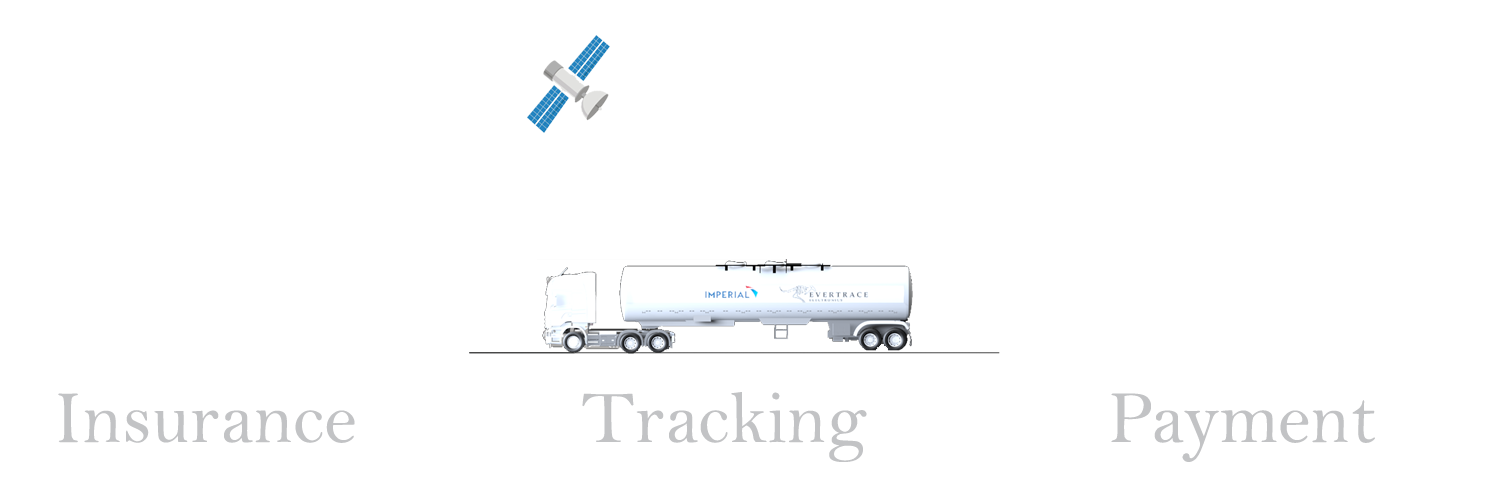
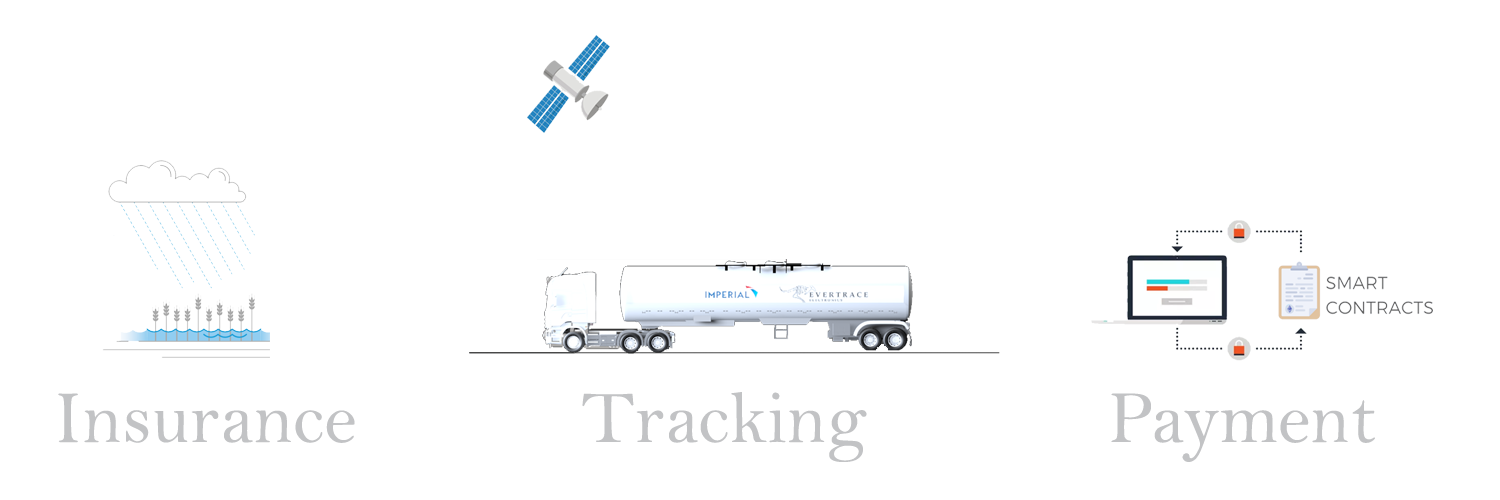
Svgs From afterEffects Imported

diff --git a/index.html b/index.html
@@ -248,8 +248,10 @@
             </div>
             <div class="ProjectCenter">
                 <div class="ProjectText">
+                    
+<div id="bm" style="height: 100%; width: 100%"></div>
 
-                    <img  src="img/ProjectSVG.png" style="width: 100%; height: 100%;">
+                  <!--  <img  src="img/ProjectSVG.png" style="width: 100%; height: 100%;"> -->
                    <!-- <hr class="ProjectLine">
                     <div class="ProjectFlow">
                         <p class="ProjectInsurance">Insurance</p>
@@ -296,7 +298,6 @@
         <p>Lorem ipsum dolor, sit amet consectetur adipisicing elit. Natus sapiente ratione incidunt distinctio suscipit corporis,
             earum doloribus aspernatur iure! Quidem quia esse placeat maxime commodi! esse placeat</p>
     </div>
-
 
 
 
@@ -618,7 +619,7 @@
 
     <script type='text/javascript' src='http://www.bing.com/api/maps/mapcontrol?callback=GetMap' async defer></script>
     <script src="https://cdnjs.cloudflare.com/ajax/libs/bodymovin/4.13.0/bodymovin.js" ></script>
-
+    <script src="AfterEffects/index.js"></script>
     <script src="Mapping.js"></script>
     <script src="TechDetails.js" async defer></script>
     <script src="index.js"></script>

diff --git a/AfterEffects/index.js b/AfterEffects/index.js
@@ -1,0 +1,7 @@
+var animation = bodymovin.loadAnimation({
+    container: document.getElementById('bm'),
+    renderer: 'svg',
+    loop: true,
+    autoplay: true,
+    path: 'AfterEffects/data3.json'
+  })
